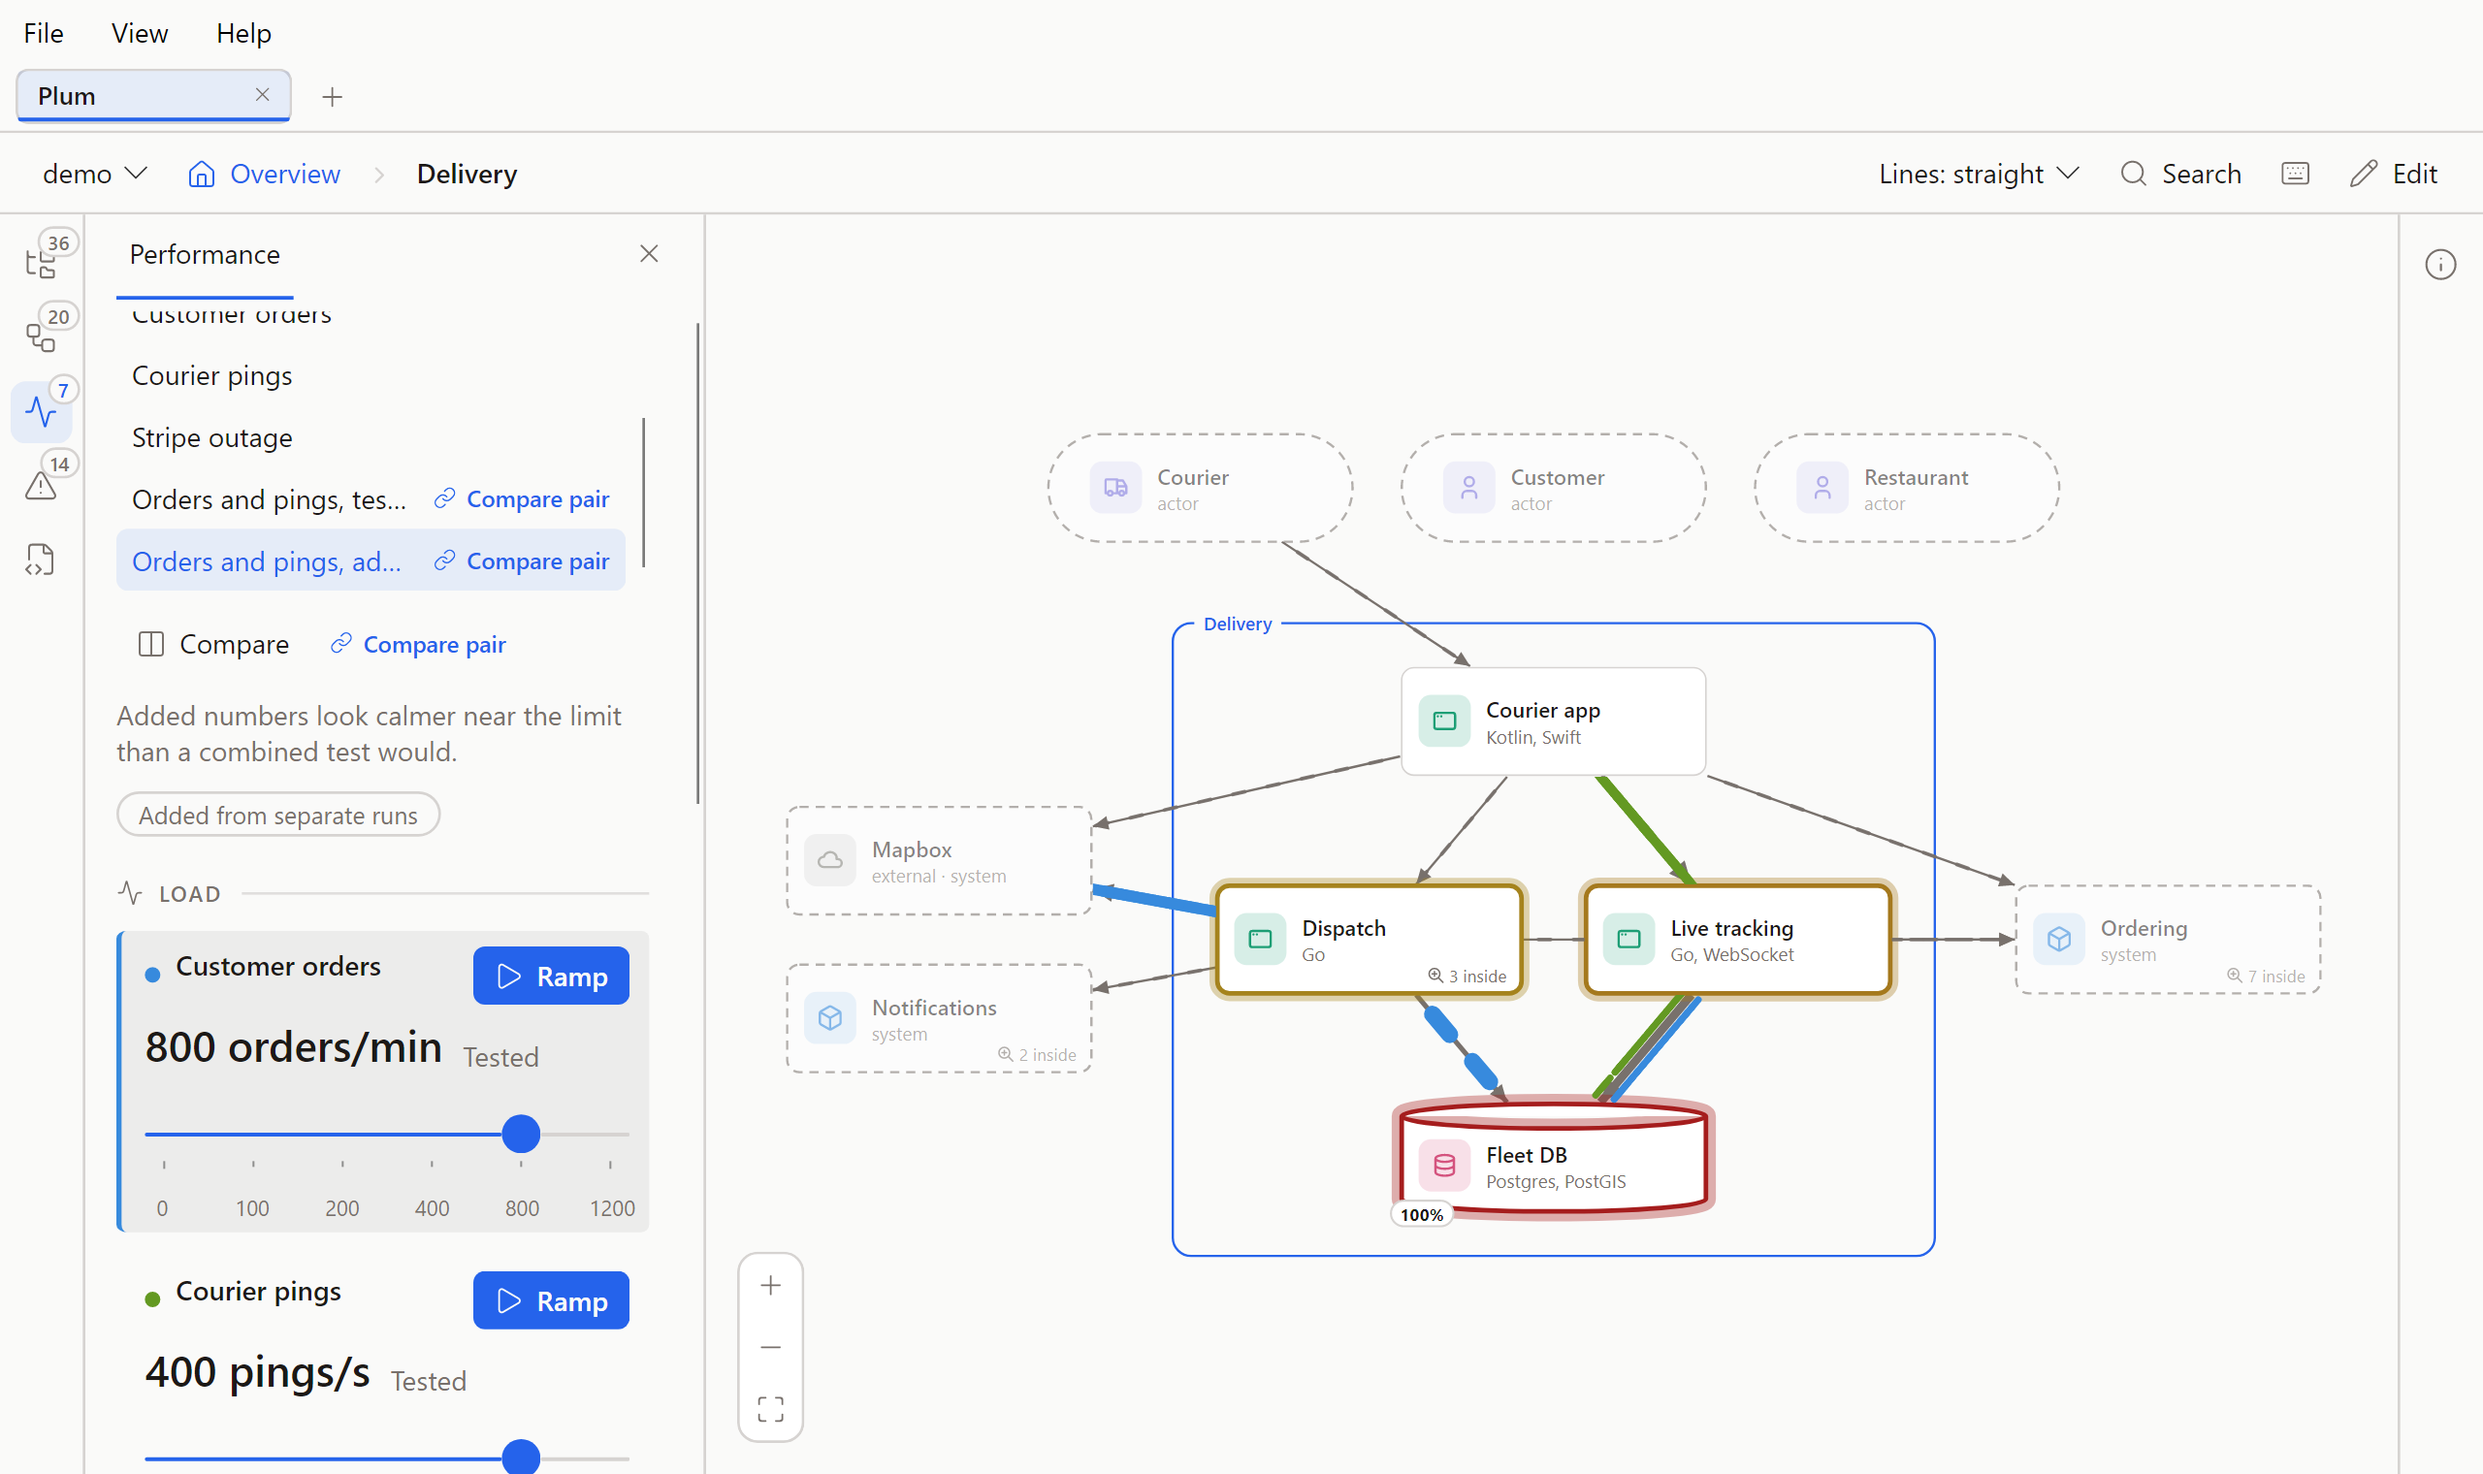
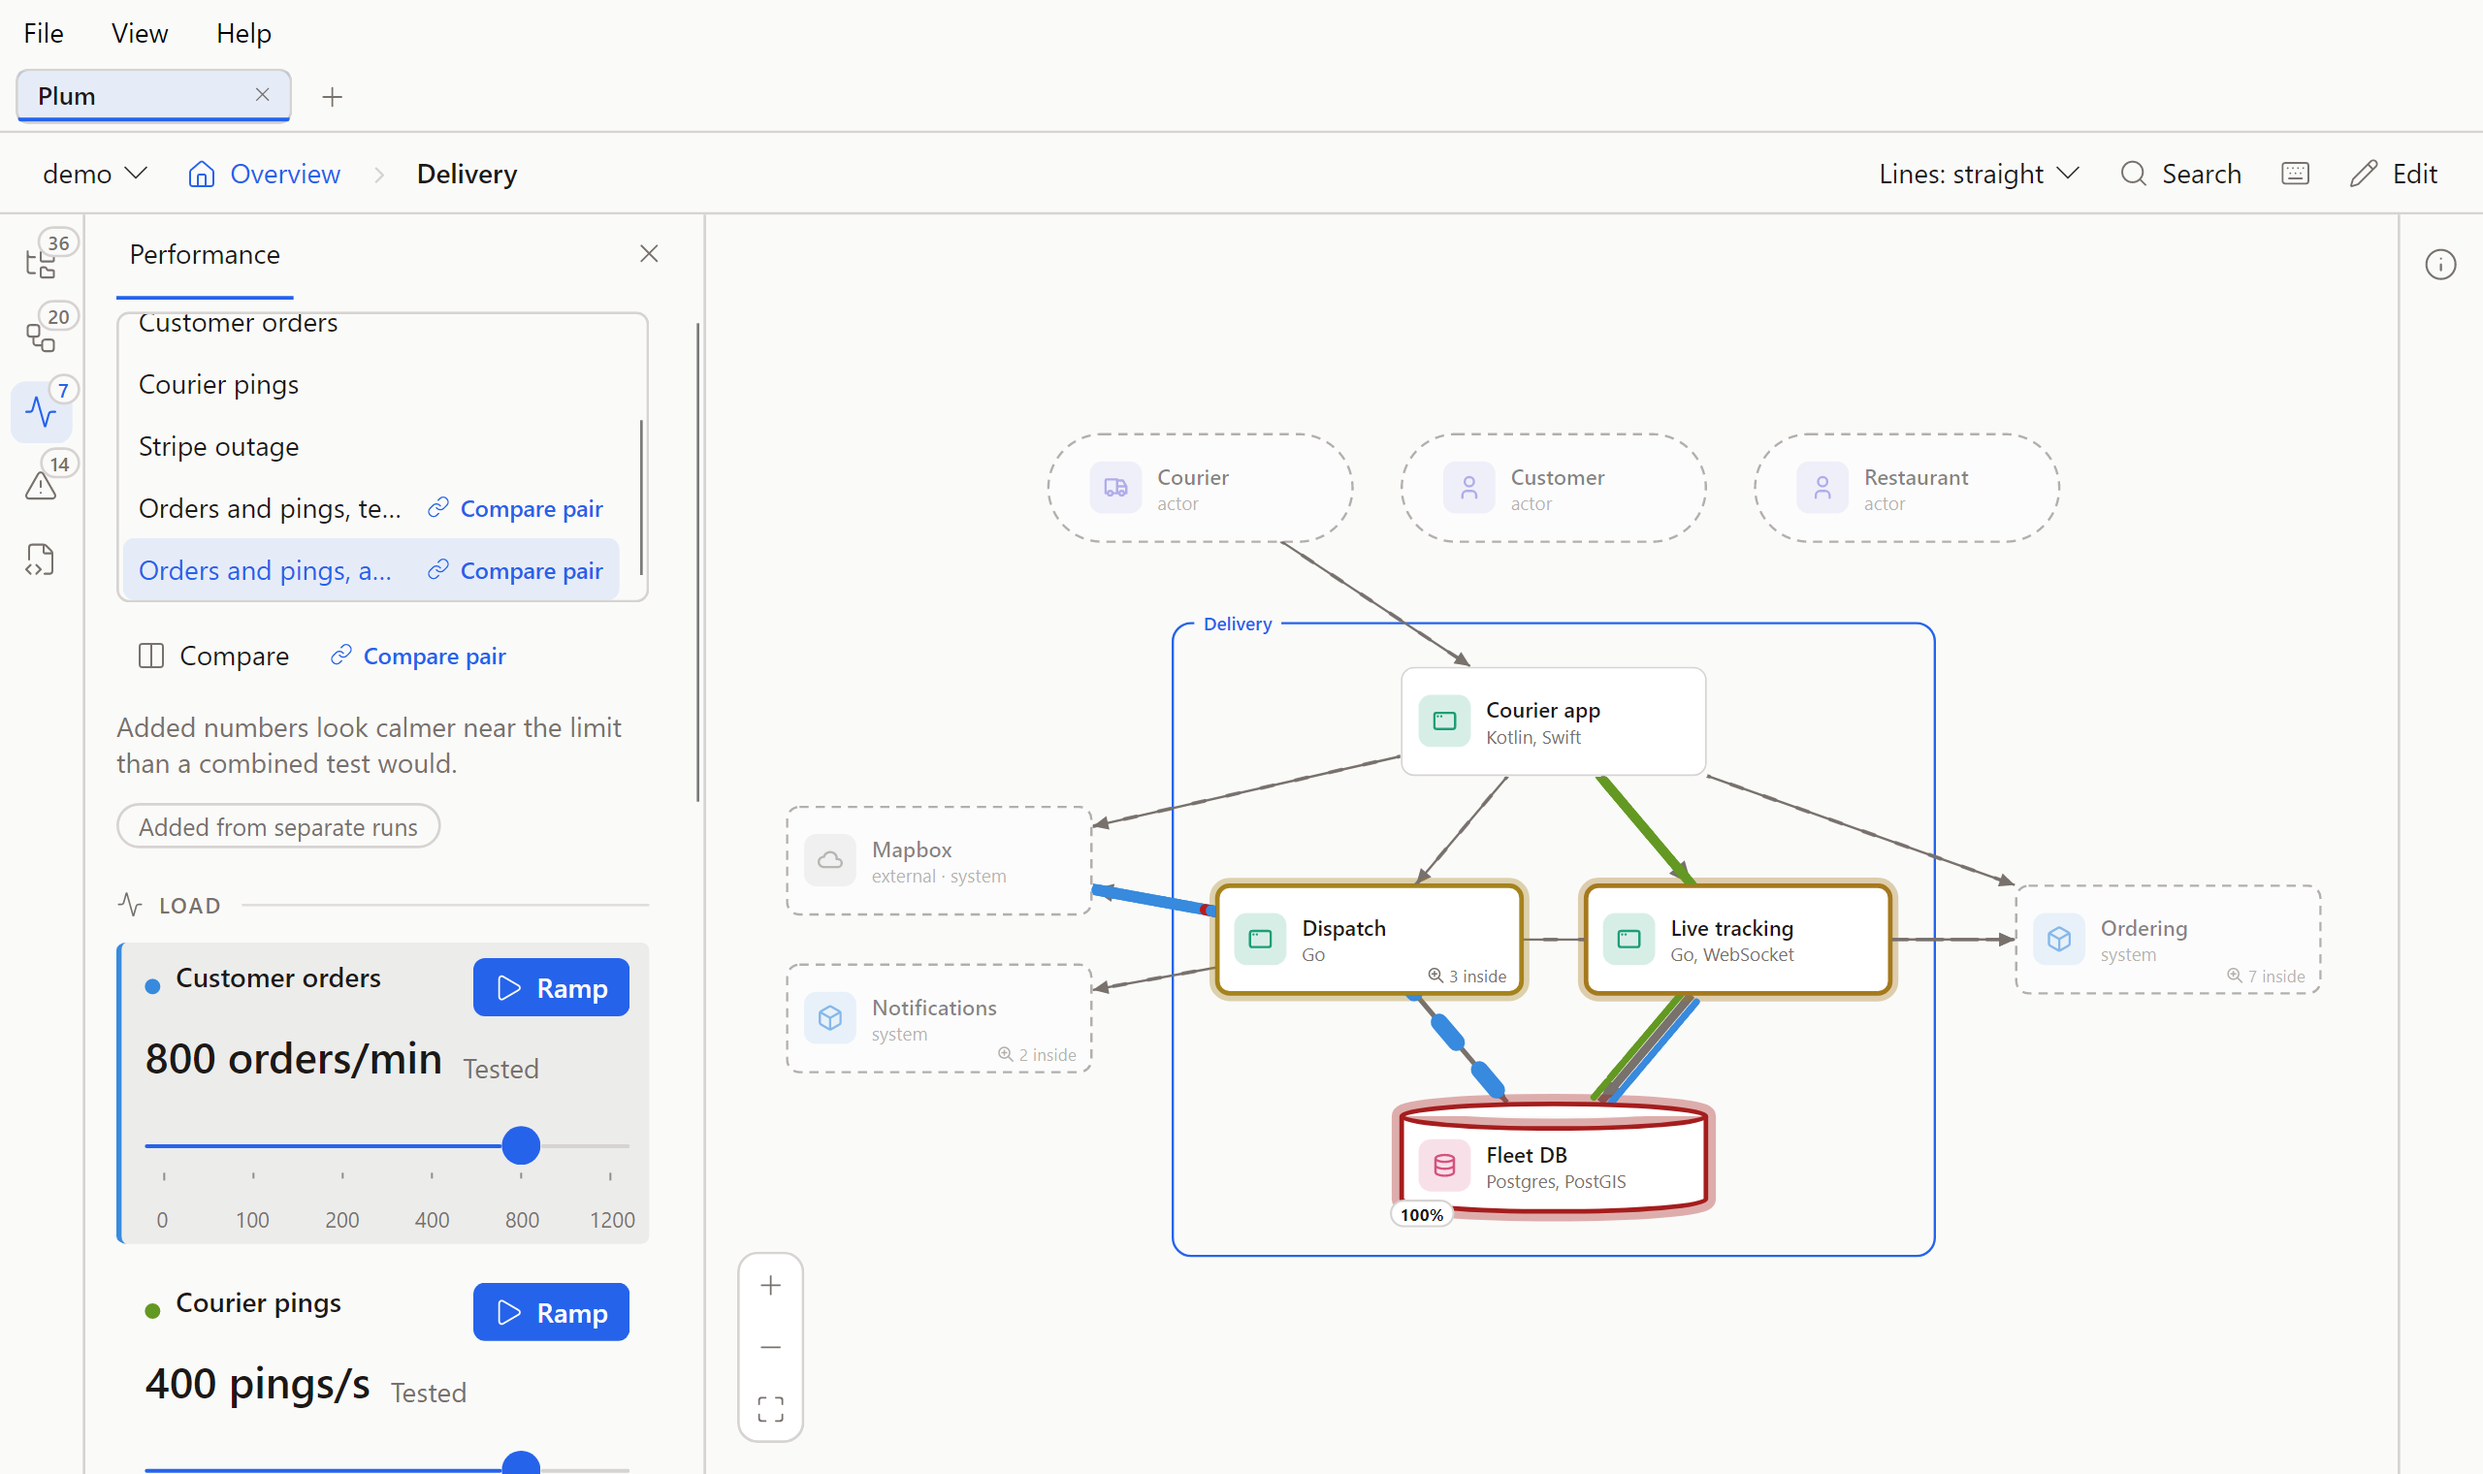
fix(rows): the scrolling list of rows has a visible edge
Before, the runs list in the Performance panel (and the Failures analyses and
the YAML files) had no border, so its clipped fifth row ran into the Compare
button below it and the list looked like part of the panel.

RowList now has a 1 px line border, a 6 px corner and 2 px of padding in both
readers (ListBox.rowlist in Styles.axaml, .row-list in style.css). The cap
goes from 144 to 150 px so the border and padding don't eat the half row that
shows there is more; PerfPanelTests and ScrollBarRoomTests pin 150.

Generated: docs/images/desktop-performance.png, desktop-time.png and
desktop-sources.png, retaken with the commands in docs/maintaining.md.

diff --git a/ui/src/style.css b/ui/src/style.css
@@ -970,7 +970,7 @@ kbd { padding: 1px 6px; border: 1px solid var(--line); border-bottom-width: 2px;
 .perf > * { flex: none; margin-top: 0; margin-bottom: 0; }
 .navbody > .perf { margin: -12px; padding: 14px 16px 26px; } /* the Performance and Failures panels fill the navigator's body */
 .perf h2 { margin: 0; font-size: 18px; }
-.row-list { max-height: 144px; margin: 0; padding: 0; overflow-y: auto; list-style: none; } /* four rows of 32px and half a fifth, which shows there is more */
+.row-list { box-sizing: border-box; max-height: 150px; margin: 0; padding: 2px; overflow-y: auto; list-style: none; border: 1px solid var(--line); border-radius: 6px; } /* four rows of 32px and half a fifth, which shows there is more, plus 6px of border and padding */
 .row-list .linked { flex: none; display: inline-flex; align-items: center; gap: 4px; color: var(--accent); font-size: 12.5px; }
 .panel .row-list .linked svg { color: inherit; top: 0; }
 .perf button.dd { width: 100%; min-height: 0; padding: 6px 8px; border: 1px solid var(--line); border-radius: 6px; background: var(--box); justify-content: space-between; }

diff --git a/desktop/Flowy.App.Tests/ScrollBarRoomTests.cs b/desktop/Flowy.App.Tests/ScrollBarRoomTests.cs
@@ -101,7 +101,7 @@ public class ScrollBarRoomTests
             panel.UpdateLayout();
 
             var list = panel.FileList!;
-            Assert.True(list.Bounds.Height <= 144, $"the list is {list.Bounds.Height} tall: it should cap at four rows and a half");
+            Assert.True(list.Bounds.Height <= 150, $"the list is {list.Bounds.Height} tall: it should cap at four rows and a half");
             var bar = list.GetVisualDescendants().OfType<ScrollBar>().First(b => b.Orientation == Avalonia.Layout.Orientation.Vertical && b.IsVisible);
             var content = list.GetVisualDescendants().OfType<ScrollContentPresenter>().First();
             Assert.False(content.Bounds.Intersects(bar.Bounds), $"The bar at {bar.Bounds} lies over the rows at {content.Bounds}");

diff --git a/desktop/Flowy.App.Tests/PerfPanelTests.cs b/desktop/Flowy.App.Tests/PerfPanelTests.cs
@@ -146,7 +146,7 @@ public class PerfPanelTests
         Assert.True(count > 4);
         var row = RunRow(panel, panel.Picker!.SelectedIndex)!;
         Assert.Equal(32, row.Bounds.Height);
-        Assert.Equal(144, panel.Picker.Bounds.Height); // four rows and half a fifth, so it shows there is more
+        Assert.Equal(150, panel.Picker.Bounds.Height); // four rows and half a fifth, so it shows there is more
         Assert.True(panel.Picker.GetVisualDescendants().OfType<ListBoxItem>().Count() < count); // only the rows in view are made
     }
 

diff --git a/desktop/Flowy.App/RowList.cs b/desktop/Flowy.App/RowList.cs
@@ -14,8 +14,8 @@ namespace Flowy.App;
 /// </summary>
 internal sealed class RowList : ListBox
 {
-    /// <summary>Four rows, 32 tall in Styles.axaml, and half a fifth.</summary>
-    private const double Tall = 144;
+    /// <summary>Four rows, 32 tall in Styles.axaml, and half a fifth, plus the border and padding (6).</summary>
+    private const double Tall = 150;
 
     private bool _told;
 
